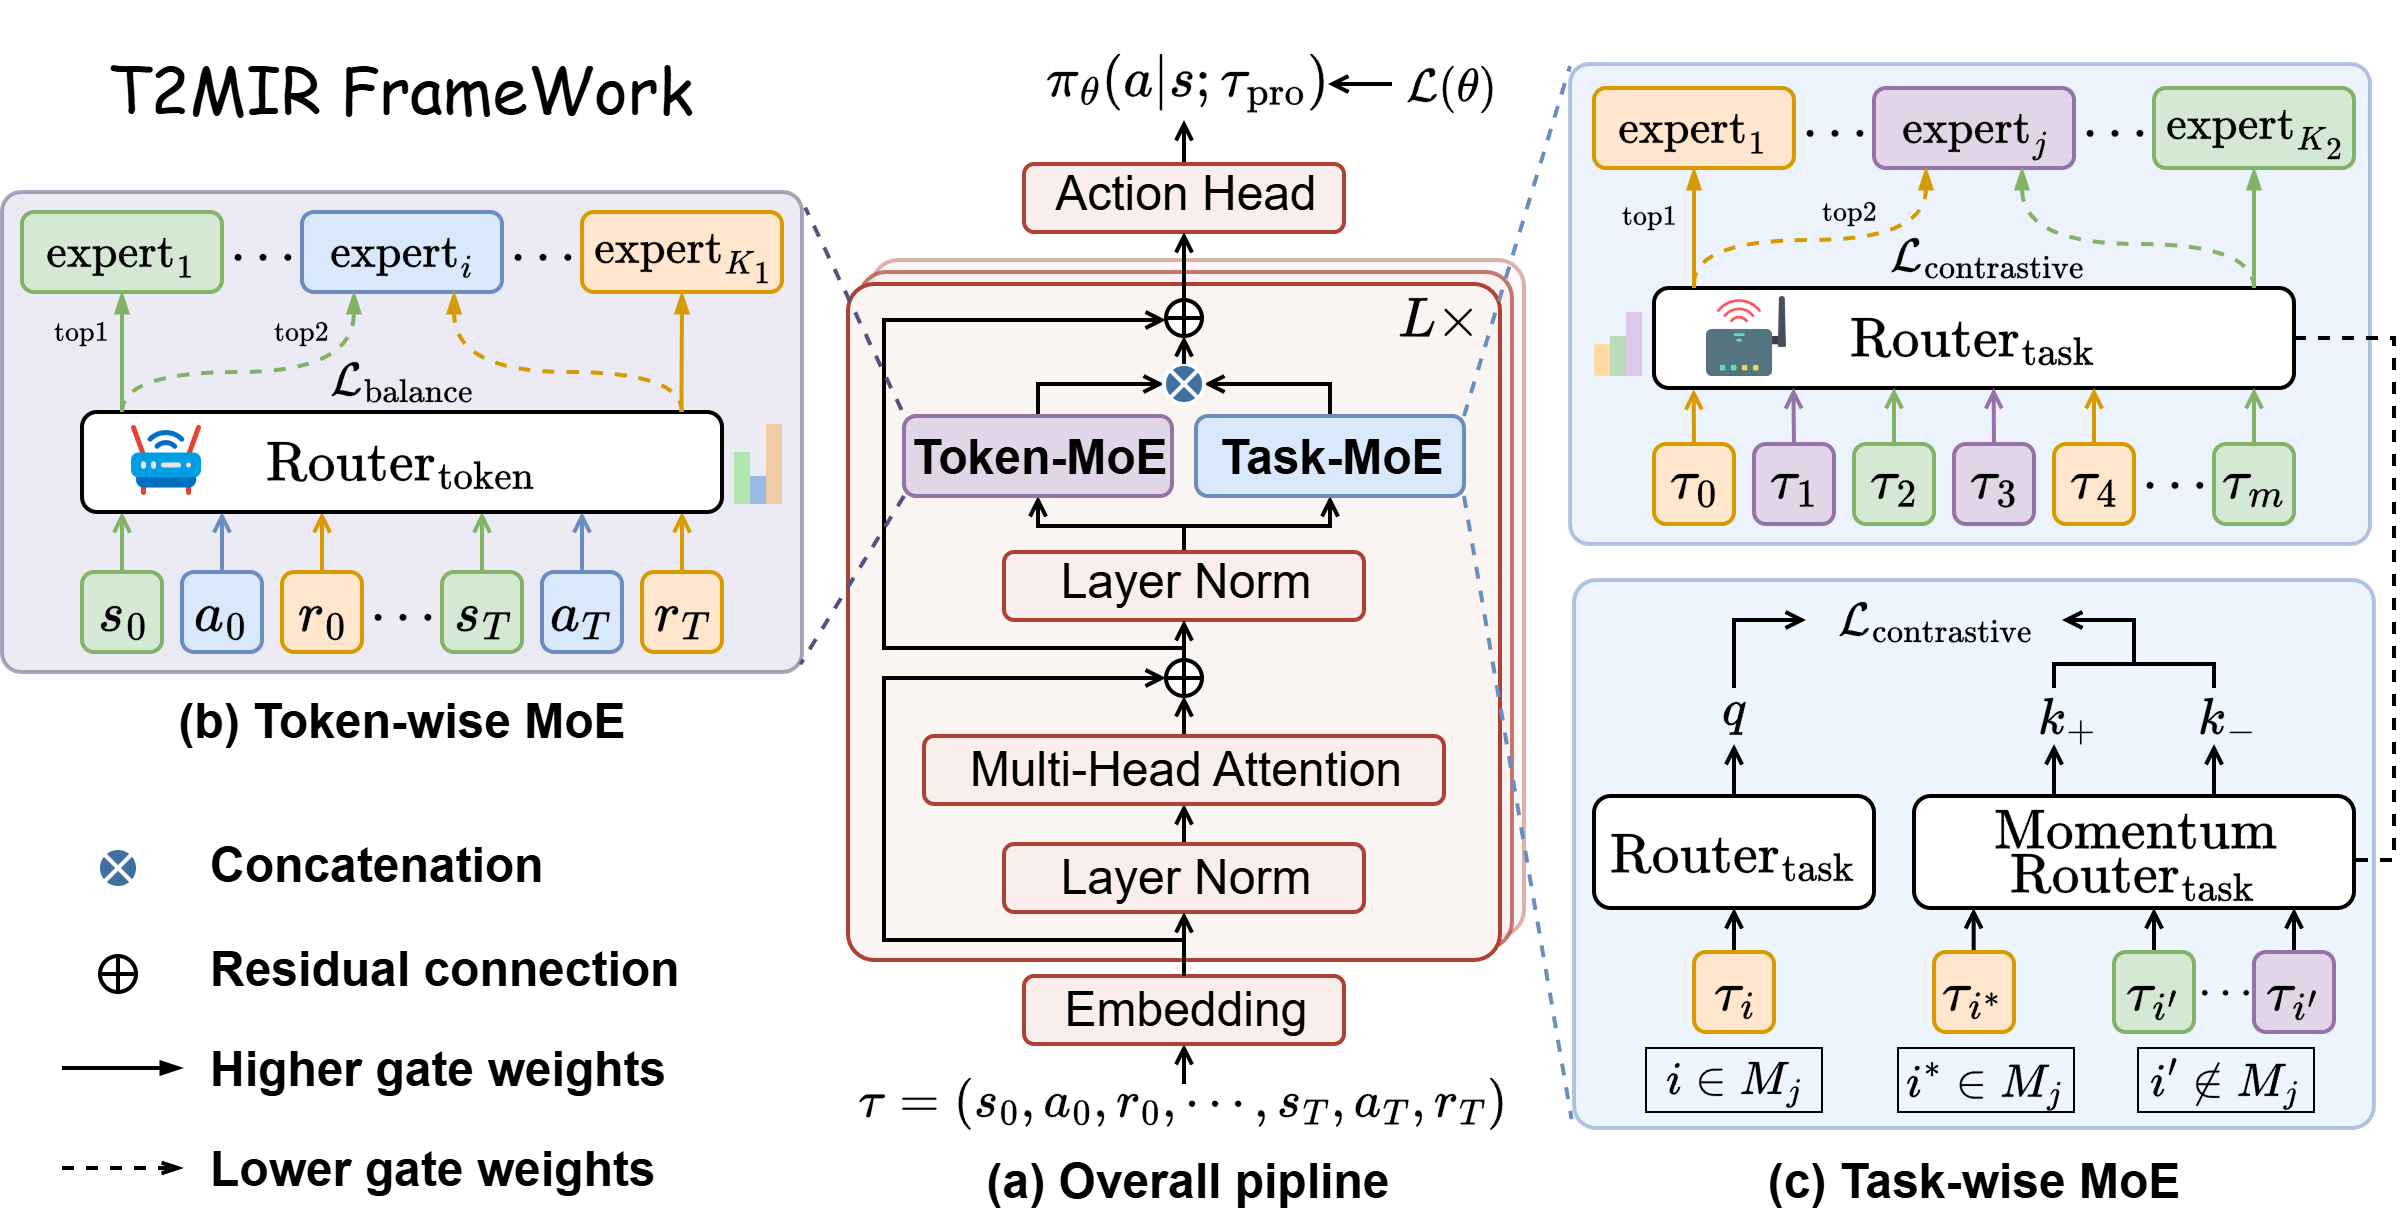
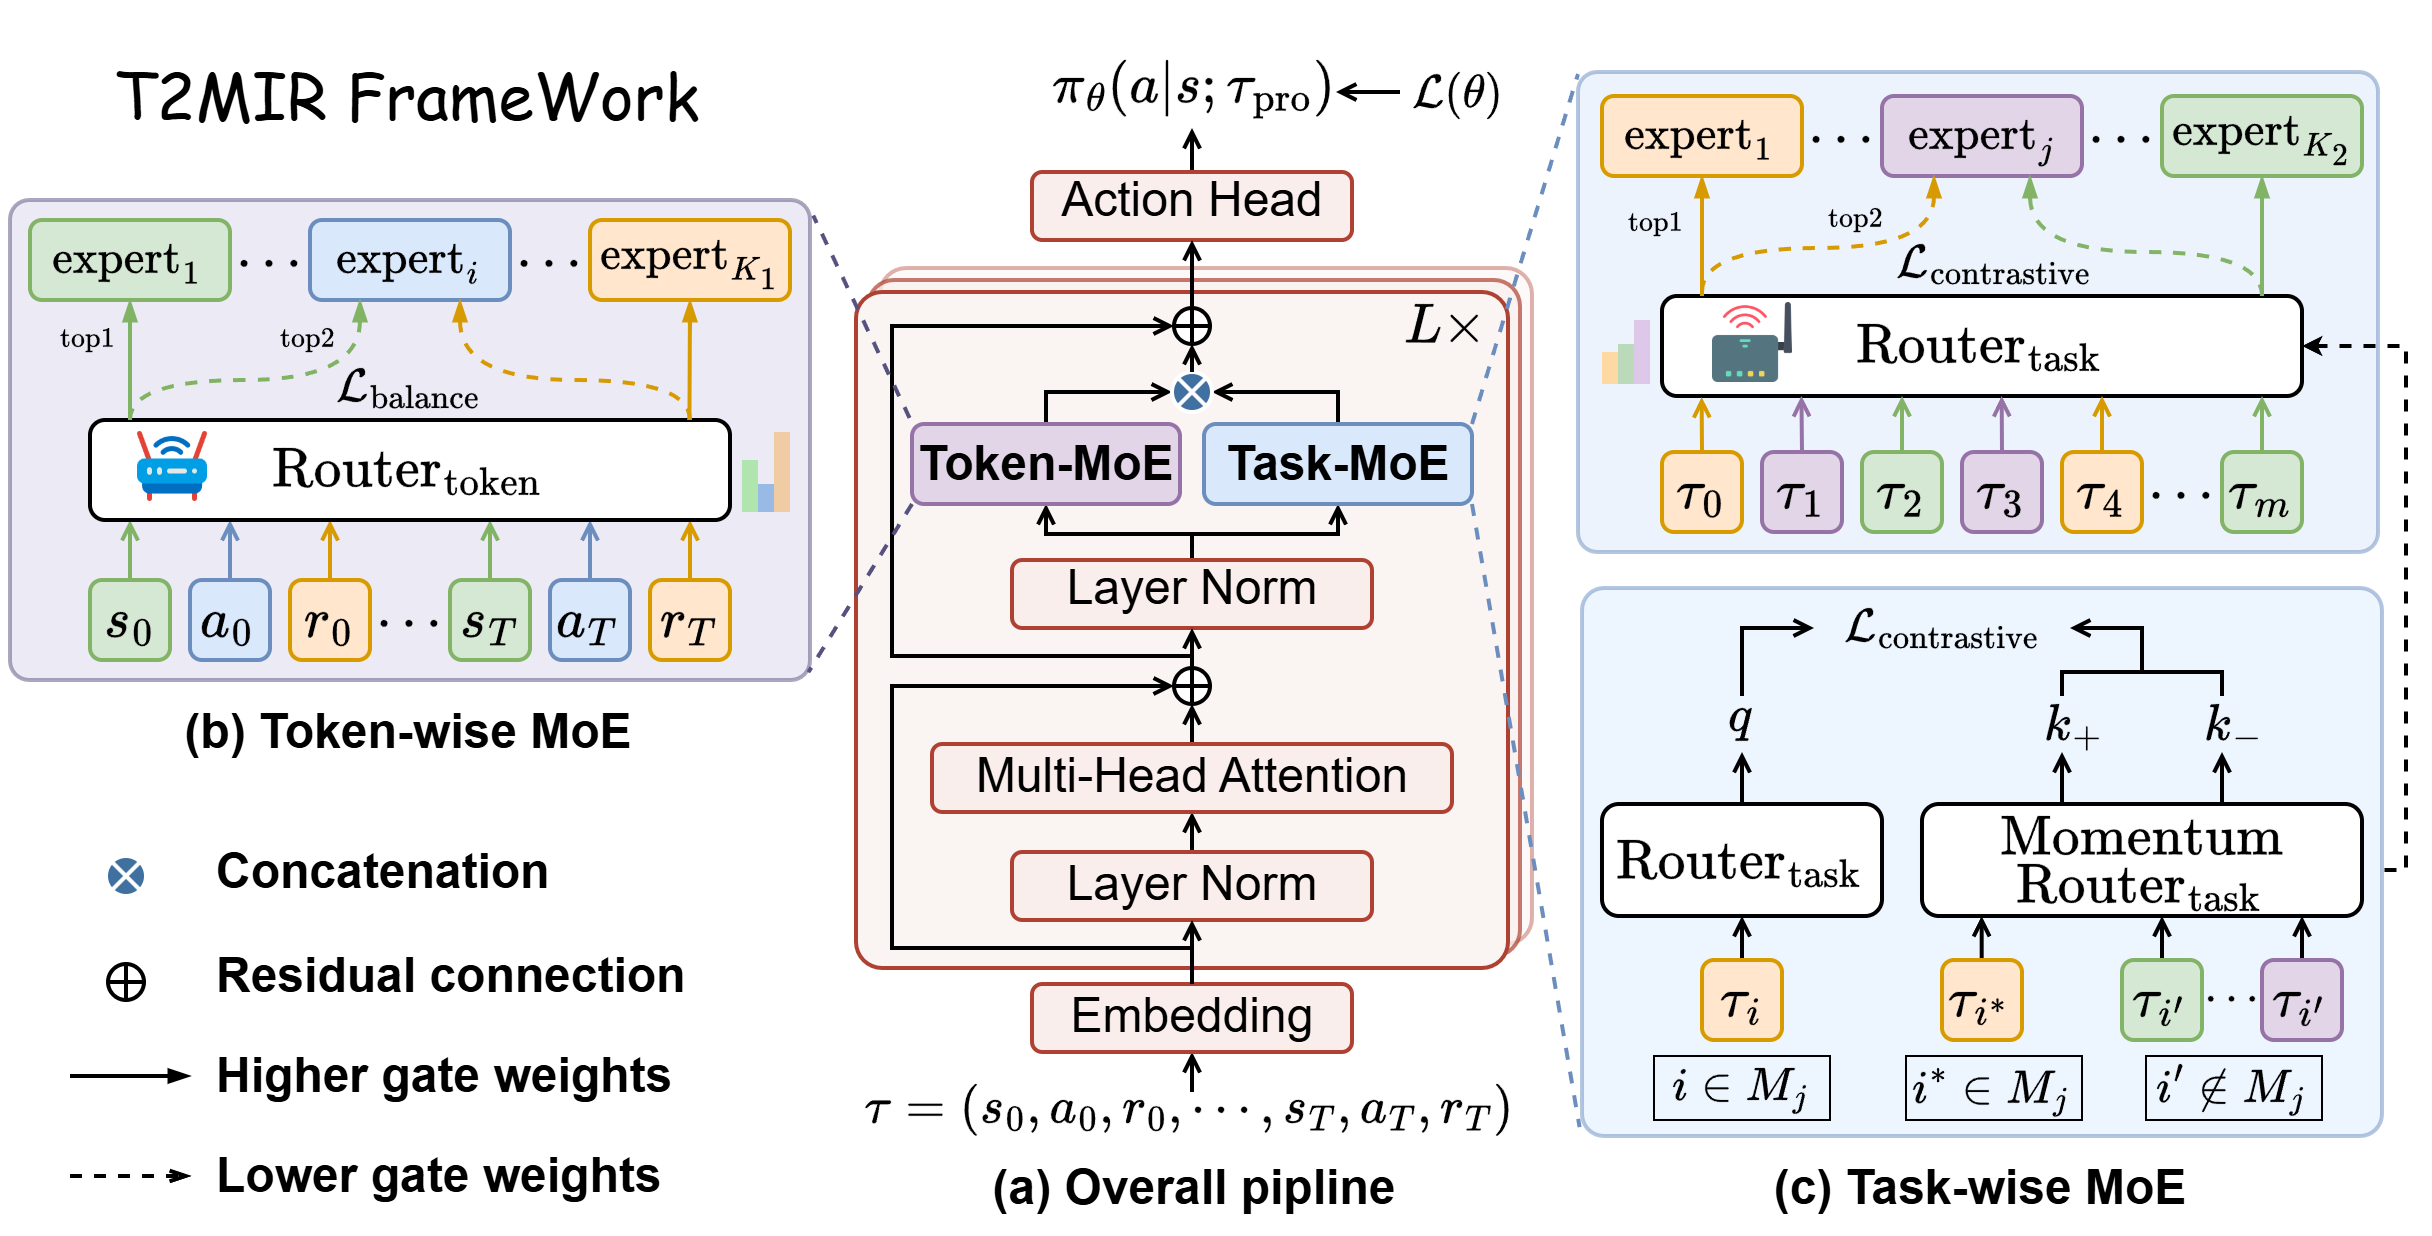
update README

diff --git a/README.md b/README.md
@@ -30,7 +30,7 @@ pip install -e .
 ```
 
 ## Data Collection
-We share our datasets vis [datasets](https://drive.google.com/drive/folders/1eDbgJ5J7L0fuTbNoOpbS-E48sUrJ1zLn?usp=sharing).
+We share our datasets via [datasets](https://drive.google.com/drive/folders/1eDbgJ5J7L0fuTbNoOpbS-E48sUrJ1zLn?usp=sharing).
 
 ### Darkroom
 We use optimal policy to generate dataset for DarkRoom by adding a decreasing noise as in [AD<sup>ε</sup>](https://arxiv.org/abs/2312.12275).
